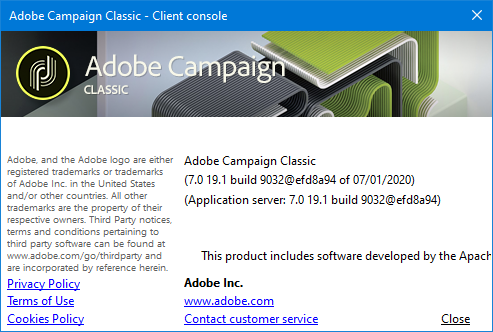
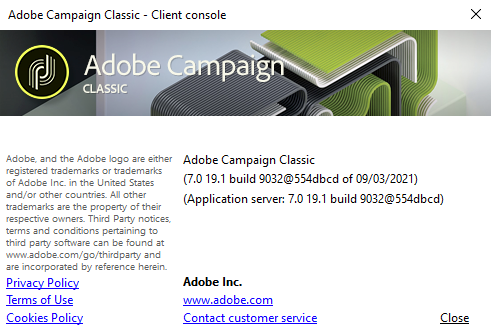
docac-6900 server build date

diff --git a/help/platform/using/launching-adobe-campaign.md b/help/platform/using/launching-adobe-campaign.md
@@ -95,11 +95,11 @@ The **[!UICONTROL Help > About...]** menu lets you access the following informat
 
 Whenever you reach out to Adobe Customer Care team, you need to provide the version number and build number of your Adobe Campaign client console and application server.
 
-If you are running on [Campaign [!DNL Gold Standard] version](../../rn/using/gold-standard.md), you also need to share the SHA/1 characters which are displayed in the **[!UICONTROL About]** box. As an example, for Gold **Standard 10 release**, the build number will show **build 9032&#64;efd8a94**, as shown below:
+If you are running on [Campaign [!DNL Gold Standard] version](../../rn/using/gold-standard.md), you also need to share the SHA/1 characters which are displayed in the **[!UICONTROL About]** box. For example, for the **Gold Standard 12** release, this build number may be displayed: "build 9032&#64;554dbcd".
 
 ![](assets/about-acc-gs.png)
 
-Learn more about [!DNL Gold Standard] [in this article](../../rn/using/gs-overview.md)).
+Learn more about [!DNL Gold Standard] [in this article](../../rn/using/gs-overview.md).
 
 **Related topics**:
 
